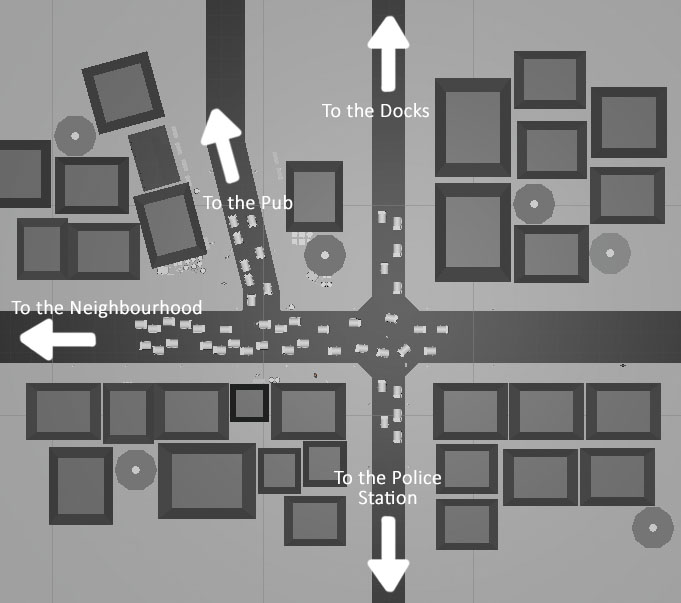
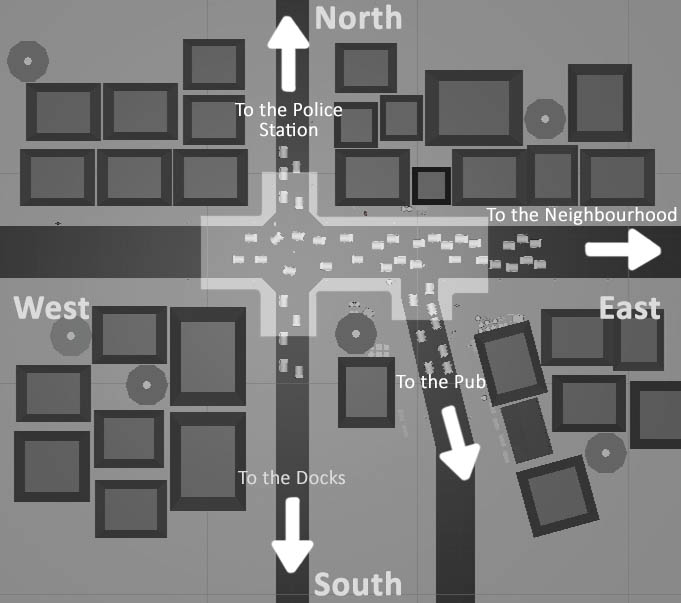
Autumn of Terror Update!

diff --git a/_posts/MyGames/2020-05-18-Autumn Of Terror.md b/_posts/MyGames/2020-05-18-Autumn Of Terror.md
@@ -26,9 +26,19 @@ My technical roles on this project include lead 3D artist and modeller, level de
 
 ### **Project Gallery and Progress**
 
-[23 July, 2020](#work-in-progress-update-from-23-july-2020)	|	[20 July, 2020](#work-in-progress-update-from-20-july-2020)	|	[15 July, 2020](#work-in-progress-update-from-15-july-2020)	|	[10 July, 2020](#work-in-progress-update-from-10-july-2020)	|	[29 June, 2020](#work-in-progress-update-from-29-june-2020)	|	[25 June, 2020](#work-in-progress-update-from-25-june-2020)	|
+[27 July, 2020](#work-in-progress-update-from-27-july-2020)	|	[23 July, 2020](#work-in-progress-update-from-23-july-2020)	|	[20 July, 2020](#work-in-progress-update-from-20-july-2020)	|	[15 July, 2020](#work-in-progress-update-from-15-july-2020)	|	[10 July, 2020](#work-in-progress-update-from-10-july-2020)	|	[29 June, 2020](#work-in-progress-update-from-29-june-2020)	|	[25 June, 2020](#work-in-progress-update-from-25-june-2020)	|
 
 Please enjoy various WIPs from the ongoing development of _The Autumn of Terror_!
+
+
+#### Work in Progress Update from 23 July, 2020 
+![Autumn of Terror 23 July WIP 4](/assets/artwork/MyGames/AutumnOfTerror/MainStreetLayout.jpg)
+![Autumn of Terror 23 July WIP 4](/assets/artwork/MyGames/AutumnOfTerror/AutumnOfTerror_WIP_2020_Jul27.jpg)
+![Autumn of Terror 23 July WIP 4](/assets/artwork/MyGames/AutumnOfTerror/AutumnOfTerror_WIP_2020_Jul27_2.jpg)
+
+_Something that Ron and I discussed a lot was travelling between locations in this game and ultimately decided there will be two modes of travelling between locations: opening a UI map and teleporting, or walking between locations. The former will work very similarly to how warping works in Breath of the Wild--the player will open a map of Whitechapel, choose the location and be sent there. The latter will be the same as literally walking from one location to another. In the first image, there is a layout of Main Street, which will have access to all four other locations (the pub, the docks, the neighbourhood and the police station). Some other locations will connect to others, but some will not. For example, it will be possible to go straight from the pub to the neighbourhood (since they are adjacent) but impossible to go straight from the police station to the docks. In order to go from the police station to the docks, the player will have to warp or travel back to the Main Street and head south towards the docks. A full map of how to travel around in our adaptation of Whitechapel will be available soon!_
+
+_So far, I've mainly been blocking out and art passing the police station (since it is where the game begins) and the pub. I knew from early on that the Main Street would be one of the more challenging locations to populate with assets because it is an open space. Art passing this area doesn't just end with the areas that the player can move around in, it goes beyond. Into the seeable distance, there has to be models simulating buildings and making it feel like a city. On the first layout image, they lightly whited-out area in the center of the image is the tiny area in which the player can actually move around and interact in. Head too far in one direction and the player will hit a collider that will act as the warp zone to another location. In order to simulate the feeling of a bigger city, I have added a few building models just in the immediate area outside of the interactable zone and plan on making a skybox to further simulate urban life. As a metropolitan hub, the Main Street location will have more models than any other location to simulate business. More NPCs will be placed eventually, and some with navmeshes. I will likely be removing a few wagons on the road, as they will eventually be moving on the street rather than be placed idly like they are right now!_ 
 
 
 #### Work in Progress Update from 23 July, 2020 
